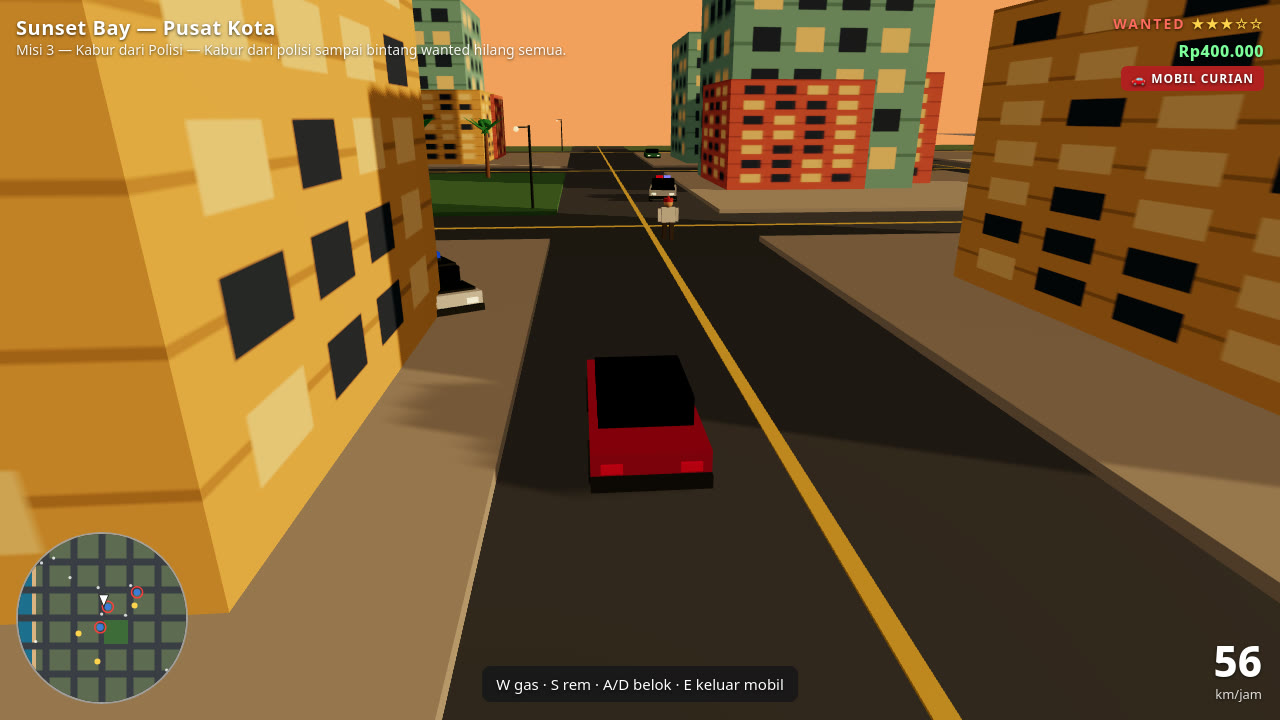
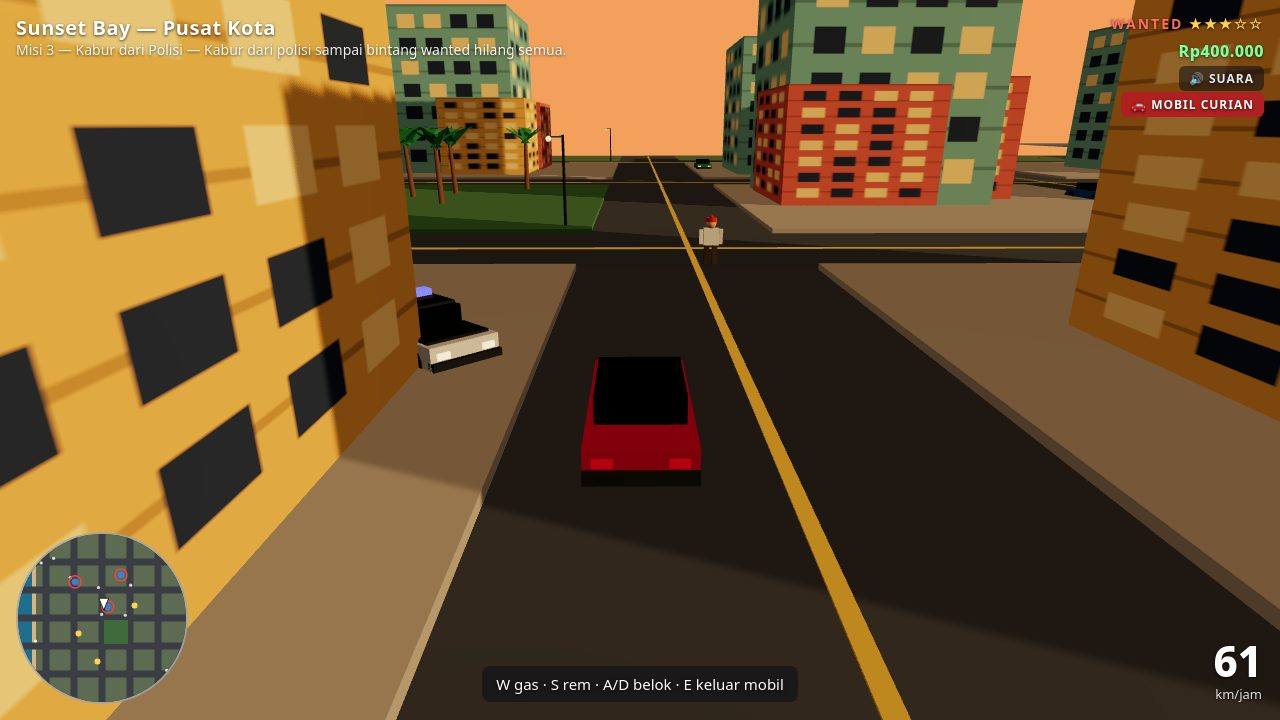
M3 final: screenshot combat (pukulan kena, wanted 1), jangkauan pukul 3,0 m, shots.json 4-combat; regresi 40/40 + check 4 passed

diff --git a/game/src/main.js b/game/src/main.js
@@ -720,11 +720,13 @@ function stageShot() {
   }
   if (SHOT === 'combat') {
     startGame(false);
-    // Raka berhadapan dengan satu pejalan kaki 1,8 m di depannya, siap
-    // memukul — pukulannya dipicu di frame 24 (lihat frame()).
+    // Raka berhadapan dengan satu pejalan kaki 1,5 m di depannya, siap
+    // memukul — pukulannya dipicu di frame 24 (lihat frame()). Jarak
+    // 1,5 m supaya pejalan kaki yang minggir (2,4 m/dtk) masih dalam
+    // jangkauan pukulan (3,0 m) saat ayunan mendarat.
     player.x = 2; player.z = -30; player.heading = Math.PI;
     const w = walkers[0];
-    w.x = 2; w.z = -31.8; w.axis = 'z'; w.dir = 1;
+    w.x = 2; w.z = -31.5; w.axis = 'z'; w.dir = 1;
     cam.yaw = 0; cam.pitch = 0.3; cam.dist = 8;
     camPos.set(2, 4, -21);
     return;

diff --git a/game/src/combat.js b/game/src/combat.js
@@ -5,7 +5,8 @@
 
 import * as THREE from 'three';
 
-export const PUNCH_RANGE = 2.6;
+export const PUNCH_RANGE = 3.0; // jangkauan pukulan (m) — cukup longgar
+// supaya pejalan kaki yang sedang minggir (2,4 m/dtk) masih kena.
 export const PUNCH_ARC = 0.9; // radian dari arah hadap pemain
 export const PUNCH_COOLDOWN = 0.45;
 
